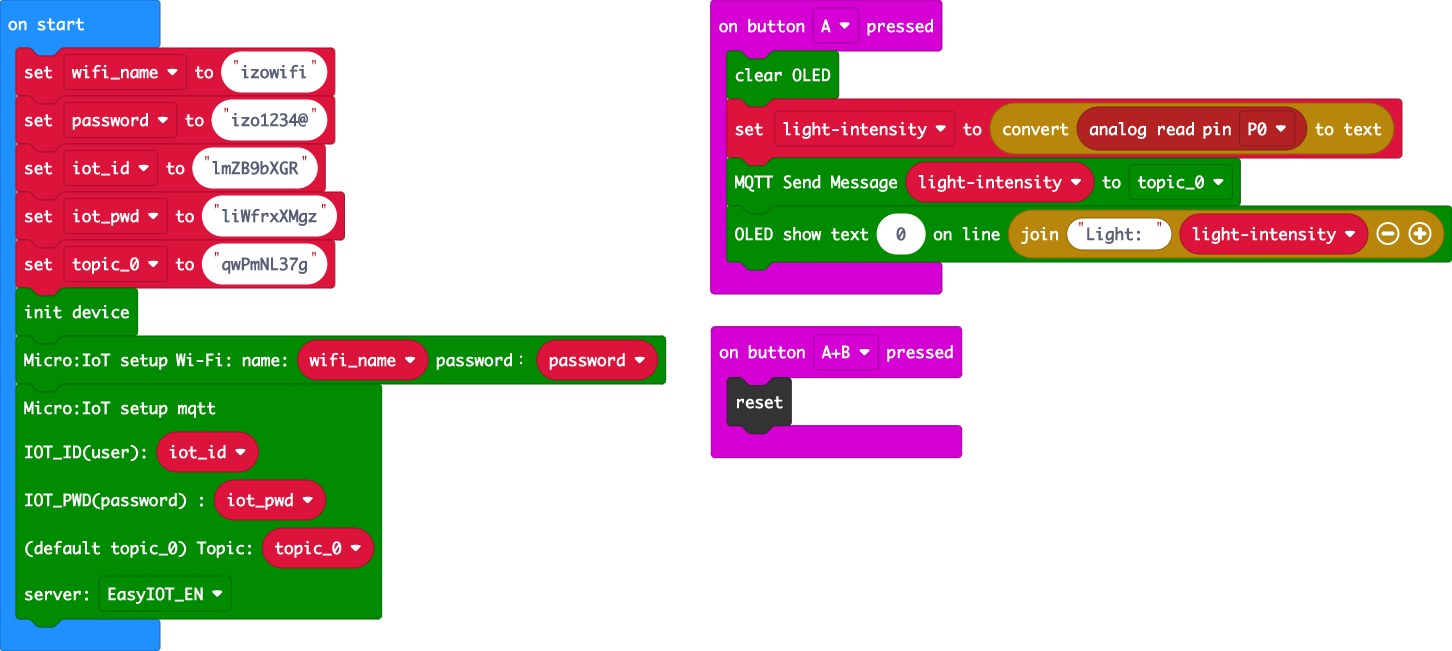
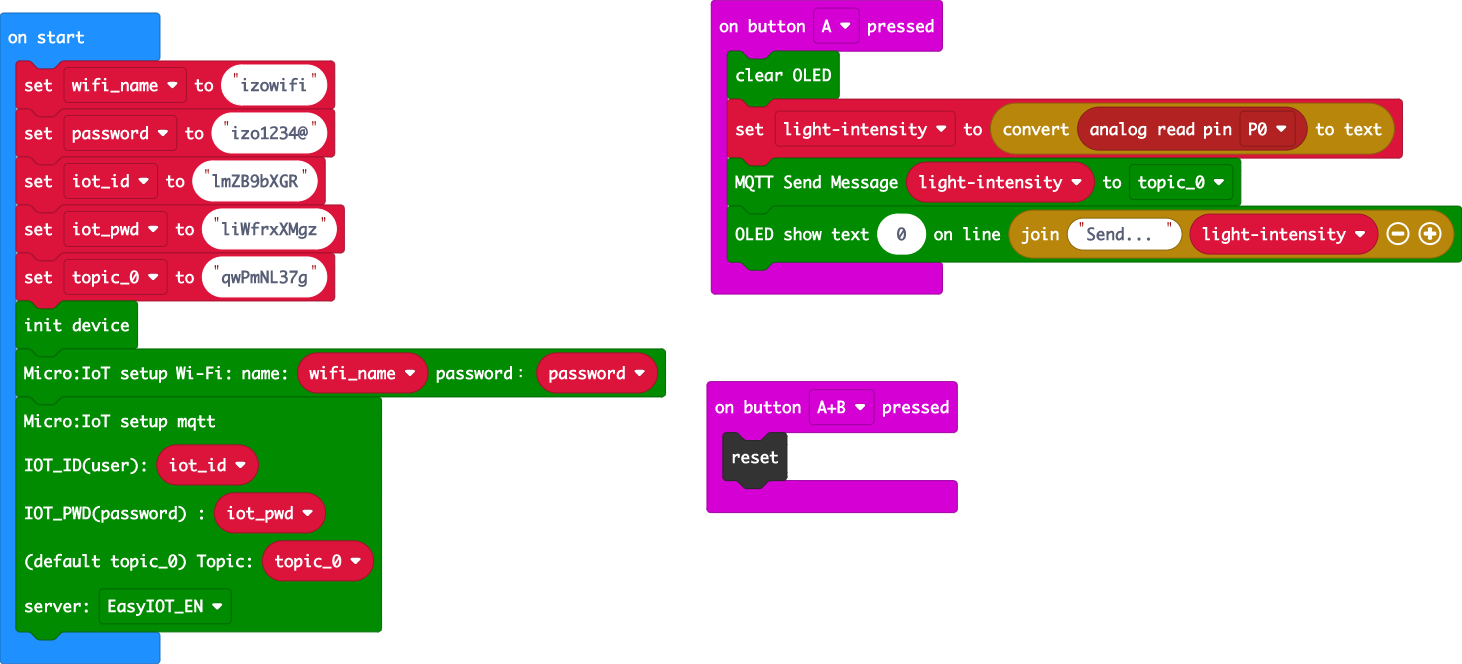
replace variable data with light-intensity

diff --git a/main.ts b/main.ts
@@ -2,7 +2,7 @@ input.onButtonPressed(Button.A, function () {
     microIoT.microIoT_clear()
     lightintensity = convertToText(pins.analogReadPin(AnalogPin.P0))
     microIoT.microIoT_SendMessage(lightintensity, microIoT.TOPIC.topic_0)
-    microIoT.microIoT_showUserText(0, "Light: " + lightintensity)
+    microIoT.microIoT_showUserText(0, "Send... " + lightintensity)
 })
 input.onButtonPressed(Button.AB, function () {
     control.reset()
